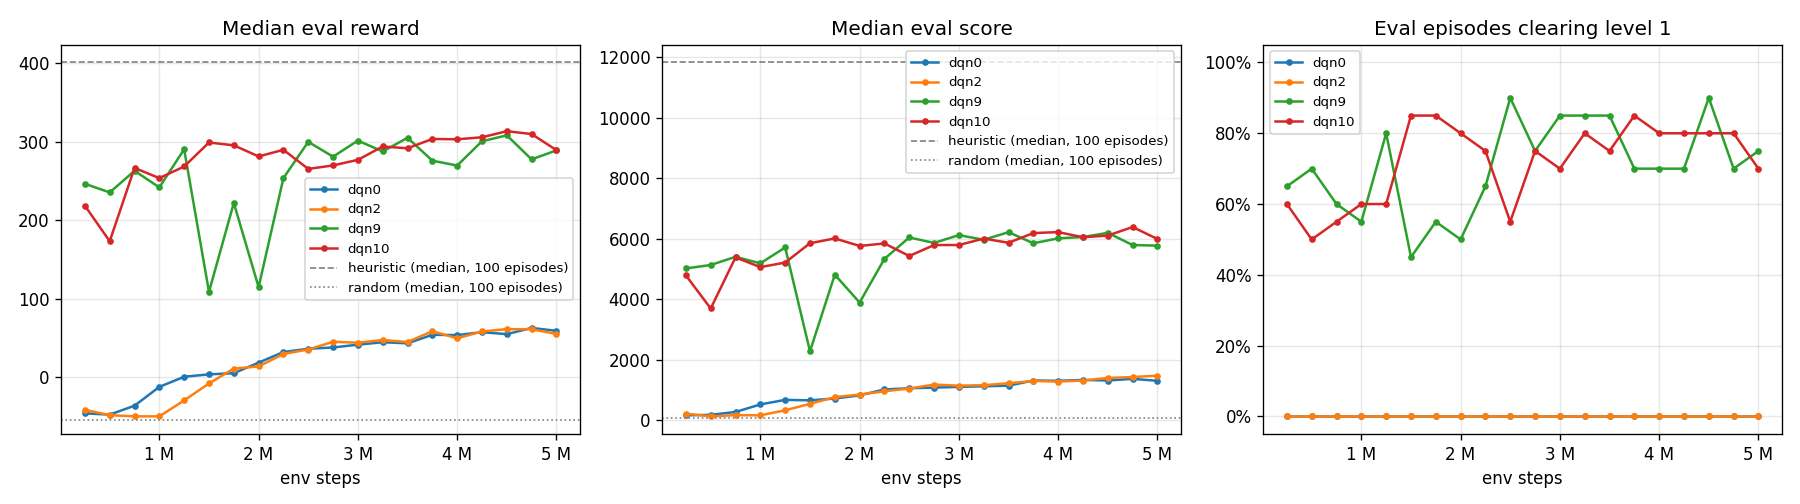
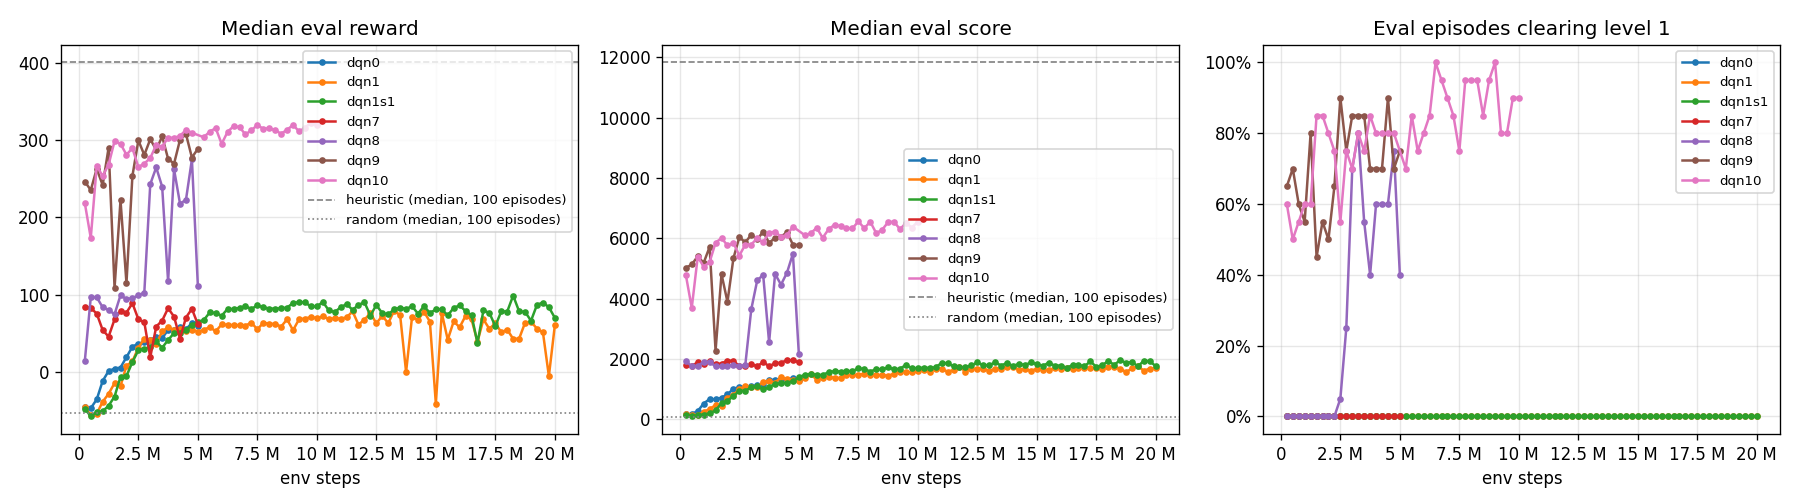
dqn10: 81% of level 1 clears (85% with the level-picked 9.0M checkpoint); results, README, plots

diff --git a/scripts/summary_table.py b/scripts/summary_table.py
@@ -37,8 +37,8 @@ LATER = {  # run -> what changed (checkpoint: best_food.pt)
     "dqn7": "fine-tune of dqn1 seed 1 on endgame prefixes, 5M",
     "dqn8": "dqn7 + endgame dot reward (k 20); from dqn1 seed 1",
     "dqn9": "fine-tune of dqn8 on its own endgame prefixes, 5M",
-    "dqn10": "dqn9 + PER (alpha 0.6, beta 0.4 -> 1)",
-    "dqn10_5M": "dqn9 + PER, the first 5M (before --resume)",
+    "dqn10": "dqn9 + PER (alpha 0.6, beta 0.4 -> 1), 5M + 5M (--resume)",
+    "dqn10_9M": "dqn10's 9.0M checkpoint, picked by level 1 clears on seeds 1000..1019",
 }
 
 
@@ -95,6 +95,8 @@ def main():
                     else f"{base} setup, seed {run[len(base) + 1:]}")
         steps = best_food_steps(run)
         ck = f"best_food.pt ({steps / 1e6:.1f}M)" if steps else "best_food.pt"
+        if run == "dqn10_9M":  # a copy of dqn10/ck_9000000.pt, not picked by food
+            ck = "ck_9000000.pt (9.0M, level pick)"
         n = nums(load(os.path.join(RUNS, run, "final_eps0.jsonl")))
         p005 = os.path.join(RUNS, run, "final_eps005.jsonl")
         n005 = nums(load(p005)) if os.path.exists(p005) else None

diff --git a/docs/results.md b/docs/results.md
@@ -19,10 +19,10 @@ Reward is the env's event reward (see docs/observation.md), score the game's.
 | dqn dqn1/best_median.pt | 100 | 0..99 | 49.1 | 70.1 | 1688 | 1580 | 3180 | 0% | 0% | 2924 | 15% | 95.2 | af91590 |
 | dqn dqn1/best_median.pt, 50 games | 50 | 0..49 | 46.0 | 67.3 | 1724 | 1590 | 3180 | 0% | 0% | 3104 | 16% | 95.4 | a5cfce0 |
 | dqn dqn1/best_median.pt, no ghosts | 50 | 0..49 | -143.0 | -143.0 | 530 | 530 | 530 | 0% | 0% | 10000 | 100% | 257.8 | a5cfce0 |
-| dqn dqn10 (5M)/best_food.pt, eps 0 | 100 | 0..99 | 267.0 | 309.7 | 5522 | 6335 | 9425 | 81% | 26% | 874 | 0% | 30.9 | 582175c |
-| dqn dqn10 (5M)/best_food.pt, eps 0.05 | 100 | 0..99 | 113.7 | 101.0 | 2157 | 1685 | 6565 | 12% | 0% | 483 | 0% | 17.5 | 582175c |
-| dqn dqn10 (5M)/best_food.pt, no ghosts, eps 0 | 3 | 0..2 | -150.0 | -150.0 | 460 | 460 | 460 | 0% | 0% | 10000 | 100% | 9.6 | 582175c |
-| dqn dqn10 (5M)/best_food.pt, no ghosts, eps 0.05 | 20 | 0..19 | -64.5 | -99.0 | 1194 | 930 | 3020 | 15% | 15% | 10000 | 100% | 60.7 | 582175c |
+| dqn dqn10/best_food.pt, eps 0 | 100 | 0..99 | 267.0 | 309.7 | 5522 | 6335 | 9425 | 81% | 26% | 874 | 0% | 31.2 | 0f9d66e |
+| dqn dqn10/best_food.pt, eps 0.05 | 100 | 0..99 | 113.7 | 101.0 | 2157 | 1685 | 6565 | 12% | 0% | 483 | 0% | 17.6 | 0f9d66e |
+| dqn dqn10/best_food.pt, no ghosts, eps 0 | 3 | 0..2 | -150.0 | -150.0 | 460 | 460 | 460 | 0% | 0% | 10000 | 100% | 9.7 | 0f9d66e |
+| dqn dqn10/best_food.pt, no ghosts, eps 0.05 | 20 | 0..19 | -64.5 | -99.0 | 1194 | 930 | 3020 | 15% | 15% | 10000 | 100% | 62.2 | 0f9d66e |
 | dqn dqn10@00.50M | 20 | 1000..1019 | 193.1 | 163.7 | 3680 | 2455 | 7255 | 50% | 0% | 766 | 0% | 13.5 | 582175c |
 | dqn dqn10@01.00M | 20 | 1000..1019 | 165.9 | 113.2 | 3178 | 2000 | 7010 | 35% | 0% | 684 | 0% | 12.7 | 582175c |
 | dqn dqn10@01.50M | 20 | 1000..1019 | 234.5 | 273.8 | 4782 | 5495 | 7515 | 75% | 0% | 840 | 0% | 14.7 | 582175c |
@@ -33,6 +33,20 @@ Reward is the env's event reward (see docs/observation.md), score the game's.
 | dqn dqn10@04.00M | 20 | 1000..1019 | 235.1 | 299.3 | 4738 | 5968 | 6760 | 65% | 15% | 821 | 0% | 14.8 | 582175c |
 | dqn dqn10@04.50M | 20 | 1000..1019 | 265.9 | 308.9 | 5419 | 6162 | 7545 | 80% | 25% | 939 | 0% | 10.6 | 582175c |
 | dqn dqn10@05.00M | 20 | 1000..1019 | 297.3 | 310.3 | 6297 | 6385 | 7740 | 95% | 20% | 1010 | 0% | 7.2 | 582175c |
+| dqn dqn10@05.50M | 20 | 1000..1019 | 224.9 | 288.4 | 4545 | 5732 | 6805 | 60% | 25% | 817 | 0% | 9.1 | 0f9d66e |
+| dqn dqn10@06.00M | 20 | 1000..1019 | 271.8 | 311.0 | 5758 | 6225 | 7870 | 85% | 10% | 890 | 0% | 9.9 | 0f9d66e |
+| dqn dqn10@06.50M | 20 | 1000..1019 | 258.2 | 297.6 | 5371 | 6175 | 7430 | 80% | 20% | 879 | 0% | 9.7 | 0f9d66e |
+| dqn dqn10@07.00M | 20 | 1000..1019 | 284.0 | 314.9 | 5770 | 6292 | 7690 | 85% | 20% | 1049 | 0% | 11.8 | 0f9d66e |
+| dqn dqn10@07.50M | 20 | 1000..1019 | 262.5 | 303.7 | 5592 | 6238 | 6860 | 85% | 15% | 1415 | 5% | 15.3 | 0f9d66e |
+| dqn dqn10@08.00M | 20 | 1000..1019 | 251.9 | 304.6 | 5311 | 6245 | 7250 | 75% | 10% | 1305 | 5% | 14.7 | 0f9d66e |
+| dqn dqn10@08.50M | 20 | 1000..1019 | 290.0 | 315.9 | 6044 | 6465 | 7270 | 90% | 25% | 978 | 0% | 10.7 | 0f9d66e |
+| dqn dqn10@09.00M | 20 | 1000..1019 | 298.5 | 310.3 | 6392 | 6520 | 10155 | 95% | 0% | 908 | 0% | 9.9 | 0f9d66e |
+| dqn dqn10@09.50M | 20 | 1000..1019 | 266.3 | 313.1 | 5604 | 6378 | 7635 | 80% | 30% | 1399 | 5% | 15.4 | 0f9d66e |
+| dqn dqn10@10.00M | 20 | 1000..1019 | 274.9 | 316.5 | 5989 | 6510 | 8750 | 85% | 15% | 1393 | 5% | 9.7 | 0f9d66e |
+| dqn dqn10/ck_9000000.pt (level pick), eps 0 | 100 | 0..99 | 280.7 | 316.9 | 5932 | 6432 | 9360 | 85% | 20% | 1281 | 3% | 44.8 | 0f9d66e |
+| dqn dqn10/ck_9000000.pt (level pick), eps 0.05 | 100 | 0..99 | 114.6 | 97.0 | 2184 | 1645 | 6895 | 13% | 0% | 468 | 0% | 16.8 | 0f9d66e |
+| dqn dqn10/ck_9000000.pt (level pick), no ghosts, eps 0 | 3 | 0..2 | -137.0 | -137.0 | 570 | 570 | 570 | 0% | 0% | 10000 | 100% | 9.5 | 0f9d66e |
+| dqn dqn10/ck_9000000.pt (level pick), no ghosts, eps 0.05 | 20 | 0..19 | -101.5 | -119.5 | 906 | 725 | 1670 | 0% | 0% | 10000 | 100% | 64.2 | 0f9d66e |
 | dqn dqn1@08.00M | 20 | 0..19 | 58.7 | 63.8 | 1606 | 1480 | 2880 | 0% | 0% | 1634 | 0% | 35.1 | cbc1d8a |
 | dqn dqn1@08.50M | 20 | 0..19 | 59.2 | 63.8 | 1552 | 1475 | 2430 | 0% | 0% | 1584 | 0% | 32.1 | af91590 |
 | dqn dqn1@09.00M | 20 | 0..19 | 55.5 | 65.2 | 1620 | 1535 | 2410 | 0% | 0% | 1991 | 0% | 39.5 | af91590 |
@@ -352,6 +366,30 @@ PPO is our own implementation (`agents/ppo.py`): 8 envs x 128 steps,
 0.01, lr 2.5e-4 annealed to 0, the learning signal divided by the running
 std of the discounted return.
 
+## dqn8 to >= 85% (2026-10-07)
+
+Fine-tunes of dqn8/best_food.pt, 5M steps each, eps 0.05 -> 0.02, lr 3e-5,
+prefix_prob 0.5 with prefixes from dqn8's own greedy games (env seeds
+2000..2599, 189 kept), dqn8's endgame dot reward. Checkpoints picked on seeds
+1000..1019 (supervisor, 20 games), final evaluation on seeds 0..99 (100 greedy
+games, no prefixes). Target: level 1 cleared >= 85% (PARTIAL >= 75%).
+
+| run | checkpoint | level 1 cleared | on seeds 20..99 | mean food | mean reward | stuck | eps 0.05: level 1 |
+|---|---|---|---|---|---|---|---|
+| dqn8 (start) | best_food.pt (3.5M) | 67% | 66% | 246.2 | 214.8 | 1% | 4% |
+| dqn9 (own prefixes) | best_food.pt (5.0M) | 79% | 79% | 274.4 | 255.3 | 0% | 12% |
+| dqn10 (own prefixes + PER), 5M + 5M | best_food.pt (5.0M; unchanged after 10M) | 81% | 81% | 284.1 | 267.0 | 0% | 12% |
+| dqn10, picked by level 1 clears | ck_9000000.pt (9.0M; 95% on seeds 1000..1019) | 85% | 84% | 301.4 | 280.7 | 3% | 13% |
+
+- dqn8's 33 lost games (`docs/dqn8_failures.png`): 32 deaths, 1 stuck; the
+  deaths come late (<= 15 food left at the last death in 25 of 32).
+- By the rule in force (best_food.pt = most food on the selection seeds)
+  the result is 81%, PARTIAL. The 9.0M checkpoint, picked by level 1 clears
+  on the same disjoint selection seeds, reaches 85% (sampling error on 100
+  games about +-3.6 points), so the target is met only with that rule and
+  only at the edge.
+- With eps 0.05 all of them clear level 1 in 12-13% of games only.
+
 ## Summary of all runs
 
 Final evaluation of each run's chosen checkpoint: 100 games, seeds 0..99, eps 0, no shaping or hunger_limit (dqn5 on: best_food.pt, the checkpoint with the most food in the supervisor's 20-game evaluations). Food = dots + energizers eaten per game (172 on level 1). Stuck = games that hit the 10000-step limit. Last column: the same checkpoint with eps 0.05.
@@ -365,8 +403,8 @@ Final evaluation of each run's chosen checkpoint: 100 games, seeds 0..99, eps 0,
 | dqn4 | best.pt (5.0M) | + hunger_limit 200, 4 actions | 112.9 | 0% | 43.0 | 1285 | 2450 | 0% | 172 | - |
 | ppo0 | best.pt (2.0M) | PPO, hunger_limit 200, 4 actions | 99.8 | 0% | 35.7 | 1020 | 1330 | 0% | 6 | - |
 | dqn1 | best_food.pt (17.5M) | 20M steps, eps over 3M; seed 0, picked by food | 151.6 | 0% | 42.9 | 1680 | 2980 | 16% | 1190 | 146.4 / 85.4 / 0% |
-| dqn10 | best_food.pt (5.0M) | dqn9 + PER (alpha 0.6, beta 0.4 -> 1) | 284.1 | 81% | 267.0 | 6335 | 9425 | 0% | 10 | 166.6 / 113.7 / 12% |
-| dqn10_5M | best_food.pt (5.0M) | dqn9 + PER, the first 5M (before --resume) | 284.1 | 81% | 267.0 | 6335 | 9425 | 0% | 10 | 166.6 / 113.7 / 12% |
+| dqn10 | best_food.pt (5.0M) | dqn9 + PER (alpha 0.6, beta 0.4 -> 1), 5M + 5M (--resume) | 284.1 | 81% | 267.0 | 6335 | 9425 | 0% | 10 | 166.6 / 113.7 / 12% |
+| dqn10_9M | ck_9000000.pt (9.0M, level pick) | dqn10's 9.0M checkpoint, picked by level 1 clears on seeds 1000..1019 | 301.4 | 85% | 280.7 | 6432 | 9360 | 3% | 10 | 166.9 / 114.6 / 13% |
 | dqn1s1 | best_food.pt (19.5M) | dqn1 setup, seed 1 | 168.8 | 0% | 56.1 | 1855 | 4690 | 20% | 488 | 159.4 / 99.0 / 0% |
 | dqn1s2 | best_food.pt (18.5M) | dqn1 setup, seed 2 | 101.5 | 0% | -28.9 | 1470 | 4030 | 6% | 3622 | 101.2 / 26.5 / 0% |
 | dqn5 | best_food.pt (10.0M) | dqn1 + food-distance channel + steps since food, 10M | 127.4 | 0% | 20.4 | 1950 | 7480 | 20% | 602 | 125.6 / 67.0 / 0% |

diff --git a/docs/overnight.md b/docs/overnight.md
@@ -345,6 +345,20 @@ as before (<= 2 runs in parallel, game/ untouched, a commit per step).
   dqn10, so step 3 = continue dqn10 with --resume for 5M more.
   `train.py --resume --extend-steps N` added (raises the run's total_steps;
   tested), since a plain --resume of a finished run does nothing.
+- 16:04 **Step 3**: dqn10 resumed from 5.0M with --extend-steps 5000000
+  (supervisor kept its evaluated points). Finished 16:52, no crash.
+  Selection evaluations 5.5..10M: level 1 cleared 60, 85, 80, 85, 85, 75,
+  90, **95 (9.0M)**, 80, 85%; mean food at most 304.9, so best_food.pt stayed
+  at 5.0M (307.1).
+- 16:54 Official final (best_food.pt rule): unchanged, the same 5.0M
+  checkpoint, **81% -> PARTIAL after the extra 5M; per the plan: stop.**
+- 16:56 Extra, labelled separately: dqn10's 9.0M checkpoint (best level 1
+  clears on the selection seeds 1000..1019) on seeds 0..99: **85%** (84% on
+  20..99), food 301.4, reward 280.7, 3% stuck; eps 0.05: 13%.
+- Conclusion: own-game endgame prefixes (+ PER) moved dqn8 from 67% to 79-81%
+  by the food rule; 85% is reached only when the checkpoint is picked by
+  level clears, and only at the threshold (+-3.6 points on 100 games). The
+  seed 1 / seed 2 repeats were not started (see decisions).
 
 ## Unclear points and decisions (2026-10-07)
 
@@ -367,3 +381,12 @@ as before (<= 2 runs in parallel, game/ untouched, a commit per step).
   best_food.pt); the replay buffer was not saved (checkpoint_buffer false),
   so it refills for learning_starts (20k steps) and PER priorities start
   fresh; epsilon stays at 0.02 (its schedule ended at 1M).
+
+- Checkpoint rule vs target: best_food.pt (most food) was the rule, but the
+  target is level clears and food stopped tracking them once the agent eats
+  into level 2 (more food also comes from playing on). The level-picked 9.0M
+  checkpoint is reported separately and released next to the rule's pick;
+  which rule counts is for the user to decide.
+- Step 3 says "if one reached >= 85%, repeat the fine-tune with seeds 1 and
+  2". By the rule in force none did (81%), so the conservative reading was to
+  stop; the repeats (2 x 10M, about 2 hours) were not started.

diff --git a/README.md b/README.md
@@ -10,8 +10,8 @@ level 2, whose maze differs from level 1 in 23 cells.
 
 ![dqn8 playing](docs/dqn8.gif)
 
-> v0.1 (2026-10-07): the first agent that clears level 1 (dqn8, 67% of
-> greedy games). Numbers are taken from `docs/results.md` and the session
+> v0.2 (2026-10-07): dqn10 clears level 1 in 81% of greedy games (85% with
+> the checkpoint picked by level clears); v0.1: dqn8, 67%. Numbers are taken from `docs/results.md` and the session
 > logs `docs/overnight.md`.
 
 ## How the game became an environment
@@ -111,6 +111,9 @@ dots + energizers eaten per game, 172 on level 1. From `docs/results.md`
 | dqn8, eps 0.05 | best_food.pt | 159.5 | 4% | 102.4 | - |
 | dqn8 setup from dqn1 seed 0 / seed 2 | best_food.pt | 153.9 / 103.2 | 0% / 0% | 67.1 / -40.8 | 1680 / 1395 |
 | dqn8 setup, 3 starting networks (mean +- std) | best_food.pt | 167.8 +- 59.2 | 22% (67 / 0 / 0) | 80.4 +- 104.8 | 2702 +- 1651 |
+| dqn9: dqn8 fine-tuned on its own endgame openings | best_food.pt | 274.4 | 79% | 255.3 | 6050 |
+| dqn10: dqn9 + prioritized replay, 10M | best_food.pt (5.0M) | 284.1 | 81% | 267.0 | 6335 |
+| **dqn10, checkpoint picked by level 1 clears** | ck 9.0M | **301.4** | **85%** | **280.7** | **6432** |
 
 Training curves (`docs/training.png`) and evaluation curves
 (`docs/eval.png`); the fine-tunes dqn7, dqn8, dqn8s0, dqn8s2 are plotted from
@@ -144,6 +147,12 @@ Worked:
   limit, the best mean reward (99.0 for dqn1 seed 1).
 - Choosing checkpoints by food eaten instead of mean reward, and by mean
   instead of median (a median hides games stuck until the step limit).
+- Pushing level 1 clears from 67% to 81-85% (dqn9, dqn10): dqn8's lost
+  games were deaths late in the level, not blind spots
+  (`docs/dqn8_failures.png`); fine-tuning it on endgame openings from its
+  own games (seeds disjoint from the evaluation) and then adding
+  prioritized replay. Checkpoints are picked on seeds 1000..1019 and
+  evaluated on 0..99.
 - Clearing level 1 (dqn8): fine-tuning the best DQN with episodes that start
   near the end of level 1 (replayed heuristic openings with <= 15 food left,
   `data/endgame_prefixes.json`, half of the resets) **and** dots worth more
